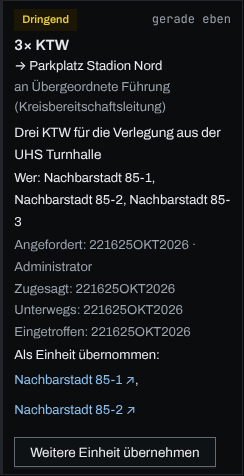
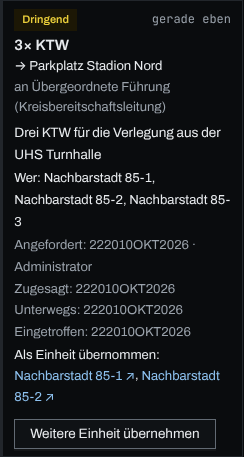
fix(nachforderung): übernommene Einheiten fließen in der Kartenzeile
„Als Einheit übernommen: …“ stellte in der schmalen Board-Spalte jeden Link
auf eine eigene Zeile mit großem Abstand: der Kennungs-Boden machte jeden
Link zu einem unteilbaren inline-flex-Block von Steuerhöhe. In kompakt
fließen die Links jetzt im Satz, eine senkrechte Polsterung hält die
Trefffläche auf dem Boden 24 aus Gate 3, ohne die Zeile zu heben. Ab dem
Tablet (komfortabel, Handschuh) behalten sie den vollen Boden und stehen in
Flex-Reihen, das Komma hängt am Link. Doku-Bild nachgezogen.

LLH-1410
Zunder: https://zunder.rubeen.dev/#/aufgabe/i9041ugcqp00ngripd0ba4ba

Claude-Session: https://claude.ai/code/session_0119qGzQnCR3LDJRFrg5gfrq

diff --git a/frontend/src/nachforderungen/NachforderungKarte.tsx b/frontend/src/nachforderungen/NachforderungKarte.tsx
@@ -1,5 +1,6 @@
-import { Button, Flex, Space, Typography } from 'antd';
+import { Button, Flex, Space, Typography, theme } from 'antd';
 import { memo, useId, type ReactNode } from 'react';
+import { Link } from 'react-router';
 import type {
   Einheit,
   EinsatzMaterial,
@@ -33,6 +34,7 @@ import {
   kannEinheitUebernehmen,
   uebernommeneEinheiten,
 } from './einheitUebernahme';
+import { EINHEITEN_SCHRIFT, einheitenSprungAufbau } from './einheitenSprung';
 import { isErgaenzen, uebernommenePosten, uebernommeneMenge } from './materialUebernahme';
 import { istUeberfaellig, kartenZeiten } from './nachforderungStufen';
 import { nachforderungName } from './nachforderungName';
@@ -142,28 +144,64 @@ function UebernommeneEinheiten({
   nachforderung: Pick<Nachforderung, 'einsatz_id' | 'einheit_ids'>;
   einheitenJeId: ReadonlyMap<number, UebernahmeEinheit> | null | undefined;
 }) {
+  const { token } = theme.useToken();
   const bekannt = einheitenJeId ? uebernommeneEinheiten(n, einheitenJeId) : [];
   if (bekannt.length === 0) {
     return (
-      <Text type="secondary" style={{ fontSize: 13 }} data-lfh="nachforderung-einheiten">
+      <Text
+        type="secondary"
+        style={{ fontSize: EINHEITEN_SCHRIFT }}
+        data-lfh="nachforderung-einheiten"
+      >
         {n.einheit_ids.length === 1 ? '1 Einheit' : `${n.einheit_ids.length} Einheiten`} übernommen
       </Text>
     );
   }
+  // Eine aufgelöste Einheit kennt die Liste der aktiven nicht: sie zählt mit.
+  const weitere = n.einheit_ids.length - bekannt.length;
+  // Fließend im Satz (kompakt) oder gereiht mit vollem Boden (Tablet, Handschuh), LLH-1410.
+  const aufbau = einheitenSprungAufbau(token);
+  const gereiht = aufbau.art === 'gereiht';
   return (
-    <Text style={{ display: 'block', fontSize: 13 }} data-lfh="nachforderung-einheiten">
+    <Text
+      style={
+        gereiht
+          ? {
+              display: 'flex',
+              flexWrap: 'wrap',
+              alignItems: 'center',
+              columnGap: token.marginXXS,
+              fontSize: EINHEITEN_SCHRIFT,
+            }
+          : { display: 'block', fontSize: EINHEITEN_SCHRIFT }
+      }
+      data-lfh="nachforderung-einheiten"
+    >
       Als Einheit übernommen:{' '}
-      {bekannt.map((e, i) => (
-        <span key={e.id}>
-          {i > 0 && ', '}
-          <KennungsLink to={einheitDetailPfad(n.einsatz_id, e.id)}>
+      {bekannt.map((e, i) => {
+        const ziel = einheitDetailPfad(n.einsatz_id, e.id);
+        const inhalt = (
+          <>
             {e.funkrufname?.trim() || e.name} <span aria-hidden="true">↗</span>
-          </KennungsLink>
-        </span>
-      ))}
-      {/* Eine aufgelöste Einheit kennt die Liste der aktiven nicht: sie zählt mit. */}
-      {bekannt.length < n.einheit_ids.length &&
-        `, ${n.einheit_ids.length - bekannt.length} weitere`}
+          </>
+        );
+        // Das Komma hängt am Link, damit es nie allein eine Zeile beginnt.
+        const komma = i < bekannt.length - 1 || weitere > 0 ? ',' : null;
+        return (
+          <span key={e.id}>
+            {i > 0 && ' '}
+            {aufbau.art === 'fliessend' ? (
+              <Link to={ziel} style={aufbau.link}>
+                {inhalt}
+              </Link>
+            ) : (
+              <KennungsLink to={ziel}>{inhalt}</KennungsLink>
+            )}
+            {komma}
+          </span>
+        );
+      })}
+      {weitere > 0 && ` ${weitere} weitere`}
     </Text>
   );
 }

diff --git a/frontend/src/nachforderungen/NachforderungKarte.test.tsx b/frontend/src/nachforderungen/NachforderungKarte.test.tsx
@@ -3,7 +3,9 @@ import { useState, type ComponentProps } from 'react';
 import { render, screen, within } from '@testing-library/react';
 import userEvent from '@testing-library/user-event';
 import { http, HttpResponse } from 'msw';
+import { ConfigProvider } from 'antd';
 import { renderMitProviders } from '../test/utils';
+import { antdToken, farbenHell, type Dichte } from '../theme/tokens';
 import { server } from '../test/server';
 import { AnzeigeKonventionenProvider } from '../anzeige/AnzeigeKonventionenContext';
 import { mitProzessZone } from '../test/prozessZone';
@@ -267,6 +269,46 @@ describe('NachforderungKarte — Als Einheit übernehmen (LLH-1383 D9)', () => {
       'href',
       '/einsaetze/1/einheiten/11',
     );
+  });
+
+  /**
+   * LLH-1410: in der schmalen Board-Spalte stand jeder Link als unteilbarer Block von Steuerhöhe
+   * auf eigener Zeile. In `kompakt` fließen sie im Satz; ab dem Tablet behalten sie den Boden.
+   */
+  function einheitenLinks(dichte: Dichte) {
+    const { unmount } = renderMitProviders(
+      <ConfigProvider theme={{ token: antdToken(farbenHell, dichte) }}>
+        <NachforderungKarte
+          nachforderung={rtw({ einheit_ids: [11, 12] })}
+          einheitenJeId={
+            new Map([
+              [11, { id: 11, name: 'Nachbarstadt 85-1', funkrufname: null }],
+              [12, { id: 12, name: 'Nachbarstadt 85-2', funkrufname: null }],
+            ])
+          }
+        />
+      </ConfigProvider>,
+    );
+    const zeile = screen.getByText(/Als Einheit übernommen/);
+    const stile = within(zeile)
+      .getAllByRole('link')
+      .map((a) => ({ display: a.style.display, minHeight: a.style.minHeight }));
+    const flex = zeile.style.display;
+    unmount();
+    return { stile, flex };
+  }
+
+  it('kompakt: die Links fließen im Satz, ohne Steuerboden (LLH-1410)', () => {
+    const { stile, flex } = einheitenLinks('kompakt');
+    expect(stile).toHaveLength(2);
+    for (const s of stile) expect(s).toEqual({ display: 'inline', minHeight: '' });
+    expect(flex).not.toBe('flex');
+  });
+
+  it('Handschuh: die Links behalten den Boden 72 und stehen in Reihen (LLH-1410)', () => {
+    const { stile, flex } = einheitenLinks('handschuh');
+    for (const s of stile) expect(s.minHeight).toBe('72px');
+    expect(flex).toBe('flex');
   });
 
   it('„Wer“ der Zusage schlägt die Einheiten des Einsatzes vor (D10)', async () => {

diff --git a/frontend/src/nachforderungen/einheitenSprung.test.ts b/frontend/src/nachforderungen/einheitenSprung.test.ts
@@ -1,0 +1,50 @@
+import { describe, expect, it } from 'vitest';
+import { dichten } from '../theme/tokens';
+import { EINHEITEN_SCHRIFT, einheitenSprungAufbau } from './einheitenSprung';
+
+/**
+ * Die Zeile „Als Einheit übernommen: …“ in der schmalen Board-Spalte (LLH-1410). Mit dem
+ * Kennungs-Boden stand jeder Link als unteilbarer 30-px-Block auf einer eigenen Zeile. Böden als
+ * LITERALE, sonst prüfte der Test das Token gegen sich selbst; antds `lineHeight` ist 22/14.
+ */
+describe('einheitenSprungAufbau', () => {
+  const ANTD_ZEILE = 22 / 14;
+  const tokenFuer = (stufe: keyof typeof dichten) => ({
+    controlHeight: dichten[stufe].zeilenhoehe,
+    controlHeightSM: dichten[stufe].kleineZeilenhoehe,
+    lineHeight: ANTD_ZEILE,
+  });
+
+  it('schreibt die Zeile in 13 px', () => {
+    expect(EINHEITEN_SCHRIFT).toBe(13);
+  });
+
+  it('kompakt: die Links fließen im Satz und tragen keinen Steuerboden', () => {
+    const aufbau = einheitenSprungAufbau(tokenFuer('kompakt'));
+    expect(aufbau.art).toBe('fliessend');
+    if (aufbau.art !== 'fliessend') return;
+    expect(aufbau.link.display).toBe('inline');
+    expect(aufbau.link.minHeight).toBeUndefined();
+  });
+
+  it('kompakt: die senkrechte Polsterung hebt die Trefffläche auf den Boden 24, ohne die Zeile zu heben', () => {
+    const aufbau = einheitenSprungAufbau(tokenFuer('kompakt'));
+    if (aufbau.art !== 'fliessend') throw new Error('kompakt fließt');
+    const polster = aufbau.link.paddingBlock as number;
+    // 13 × 22/14 ≈ 20,43 px Zeile; 2 × Polster ergänzt auf 24.
+    expect(13 * ANTD_ZEILE + 2 * polster).toBeCloseTo(24, 5);
+    // Höchstens 2 px je Seite: mehr griffe in die Nachbarzeile.
+    expect(polster).toBeLessThanOrEqual(2);
+  });
+
+  it('komfortabel und Handschuh: die Links behalten ihren Boden und stehen in Reihen', () => {
+    expect(einheitenSprungAufbau(tokenFuer('komfortabel')).art).toBe('gereiht');
+    expect(einheitenSprungAufbau(tokenFuer('handschuh')).art).toBe('gereiht');
+  });
+
+  it('nie negative Polsterung, wenn die Zeile schon den Boden erreicht', () => {
+    const aufbau = einheitenSprungAufbau({ controlHeight: 30, controlHeightSM: 16, lineHeight: 2 });
+    if (aufbau.art !== 'fliessend') throw new Error('fließt');
+    expect(aufbau.link.paddingBlock).toBe(0);
+  });
+});

diff --git a/frontend/src/nachforderungen/einheitenSprung.ts b/frontend/src/nachforderungen/einheitenSprung.ts
@@ -1,0 +1,35 @@
+import type { CSSProperties } from 'react';
+
+/** Schriftgröße der Zeile „Als Einheit übernommen: …“, wie die übrigen Zusatzzeilen der Karte. */
+export const EINHEITEN_SCHRIFT = 13;
+
+/**
+ * Aufbau der Zeile „Als Einheit übernommen: 83-1 ↗, 83-2 ↗“ (LLH-1410) — rein und exportiert,
+ * über das Token wie `zeitachsenAufbau`, nicht über `useDichte()`.
+ *
+ * Mit dem Boden aus `KennungsLink` war jeder Link ein unteilbarer `inline-flex`-Block von
+ * Steuerhöhe: in der schmalen Board-Spalte stand jeder auf einer eigenen Zeile, mit großem
+ * Abstand dazwischen. Darum je Stufe:
+ *
+ * - unter 48 px Bedienhöhe (`kompakt`, Fükw mit Maus) `fliessend`: der Link bleibt ein
+ *   Inline-Element und bricht wie der Satz um. Den Boden aus A1 Gate 3 (24 px =
+ *   `controlHeightSM`) trägt eine senkrechte Polsterung; sie zählt zur Trefffläche, hebt die
+ *   Zeile aber nicht (Inline-Box, CSS 2.1 § 10.6.1).
+ * - sonst `gereiht` (Tablet, Handschuh): der Link behält den vollen Boden aus `KennungsLink`.
+ *   Fließend griffe die Polsterung dort weit in die Nachbarzeile; die Reihen stehen als Flex mit
+ *   Umbruch, damit Komma und Beschriftung am Link bleiben.
+ */
+export type EinheitenSprungAufbau = { art: 'fliessend'; link: CSSProperties } | { art: 'gereiht' };
+
+export function einheitenSprungAufbau(token: {
+  controlHeight: number;
+  controlHeightSM: number;
+  lineHeight: number;
+}): EinheitenSprungAufbau {
+  if (token.controlHeight >= 48) return { art: 'gereiht' };
+  const zeile = EINHEITEN_SCHRIFT * token.lineHeight;
+  return {
+    art: 'fliessend',
+    link: { display: 'inline', paddingBlock: Math.max(0, (token.controlHeightSM - zeile) / 2) },
+  };
+}
